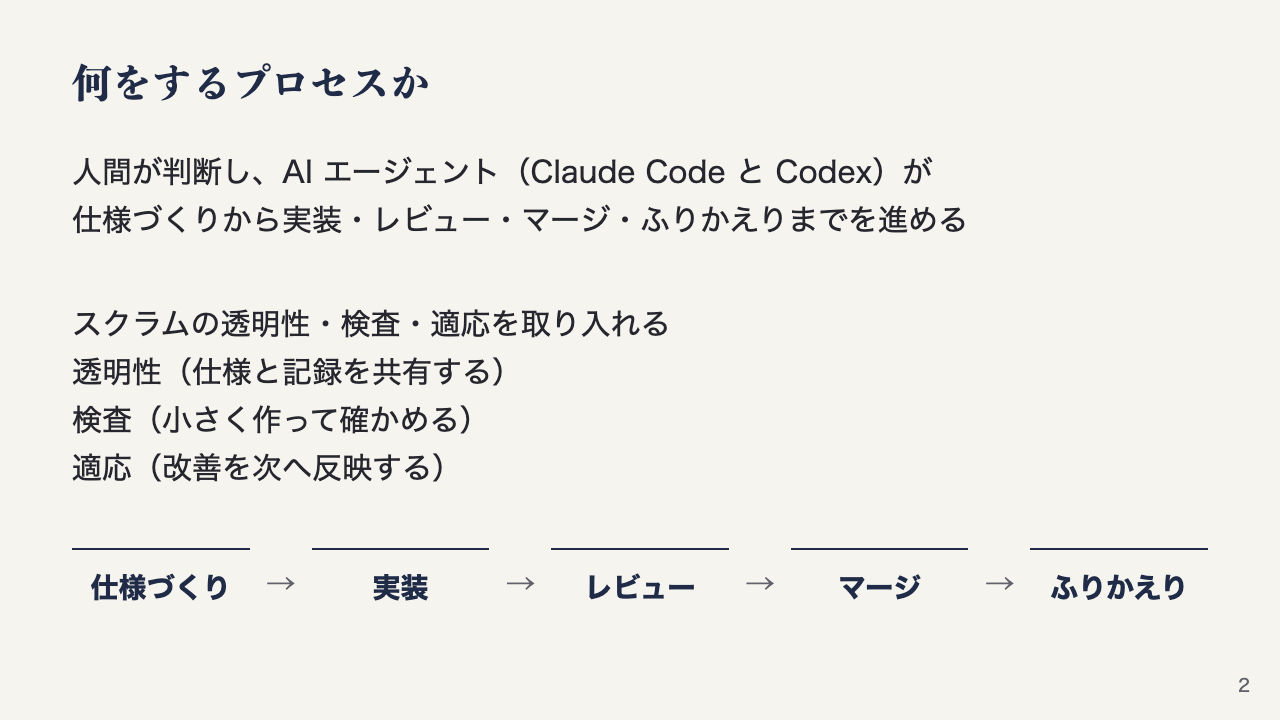
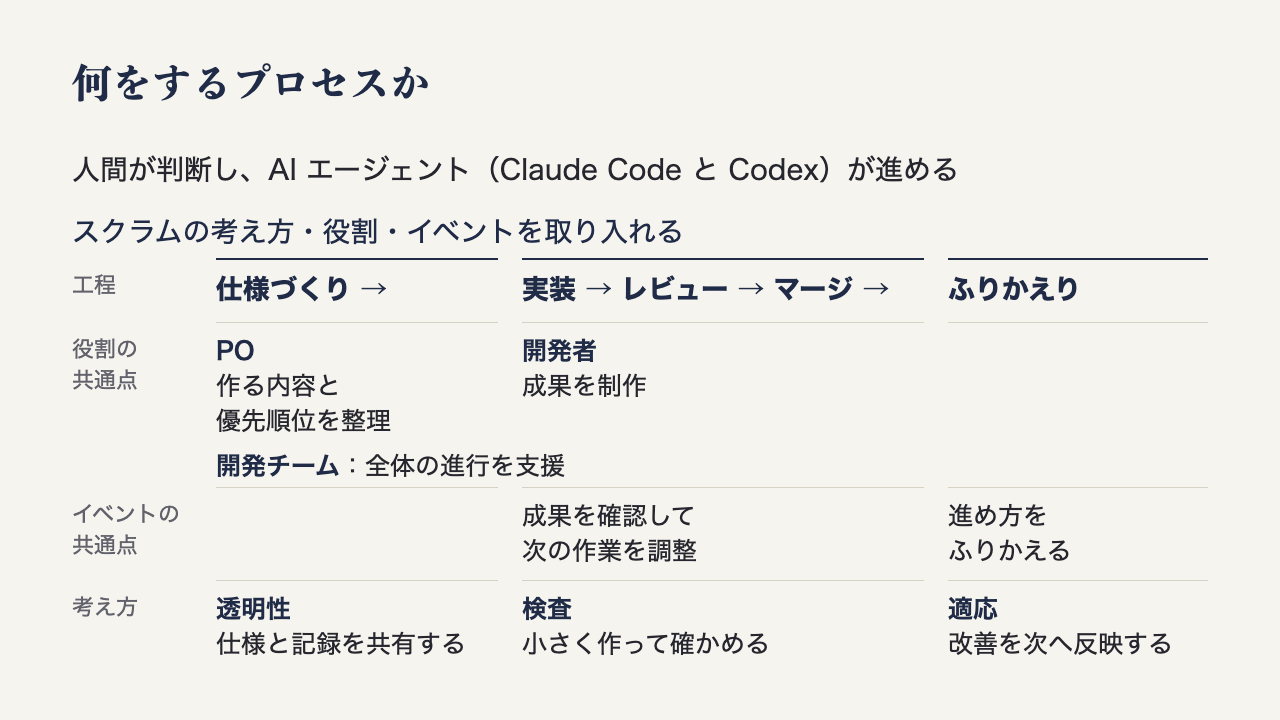
docs: show Scrum roles and events in the process diagram

diff --git a/themes/paper.css b/themes/paper.css
@@ -358,3 +358,16 @@ table.duty.loop tr.decide b { color: var(--gold-text); }
 .shots.phone.pair .shot .name { font-size: 20px; font-weight: 700; color: var(--indigo); }
 .shots.phone.pair img { flex: none; height: 165px; width: auto; max-height: none; }
 .shots.phone.pair .arrow { flex: none; align-self: center; width: 20px; padding: 0; color: var(--muted); font-size: 20px; }
+
+/* 全体像: 工程の列に役割・イベント・考え方をそろえる。2枚目専用 */
+section.process-overview .statement { font-size: 28px; line-height: 1.5; margin-bottom: 20px; }
+.overview-intro { font-size: 28px; color: var(--indigo); margin-bottom: 6px; }
+.overview-grid { display: grid; grid-template-columns: 120px 282px 402px 260px; column-gap: 24px; row-gap: 0; font-size: 25px; line-height: 1.4; }
+.overview-grid > div { min-width: 0; }
+.overview-grid .label { color: var(--muted); font-size: 22px; padding-top: 12px; }
+.overview-grid .phase { color: var(--indigo); font-weight: 700; font-size: 27px; border-top: 2px solid var(--indigo); padding: 10px 0 14px; white-space: nowrap; }
+.overview-grid .duty { border-top: 1px solid var(--rule); padding: 10px 0 6px; }
+.overview-grid b { color: var(--indigo); }
+.overview-grid .support { grid-column: 2 / 5; padding: 4px 0 4px; }
+.overview-grid .event { border-top: 1px solid var(--rule); padding: 10px 0 12px; }
+.overview-grid .pillar { border-top: 1px solid var(--rule); padding-top: 10px; }

diff --git a/docs/design.md b/docs/design.md
@@ -48,8 +48,9 @@ Issue #5 で採用した見本（`e0d645a` の [見本原稿](../slides/design-c
 |---|---|---|
 | 表紙 | `<!-- _class: cover -->` と `# 題名`、`<p class="keywords">`・`<p class="subtitle">` | 1 |
 | 本文 | `## 見出し` に続けて本文。特別なクラスは不要 | 2〜14 |
-| 要旨の一文 | `<p class="statement">` | 2 |
-| 工程 | `<div class="flow">` の中に `<div class="step">` と `<div class="arrow">→</div>` を交互に置く | 2 |
+| 要旨の一文 | `<p class="statement">`（全体像のページでは28pxの1行） | 2 |
+| 全体像の図 | `<!-- _class: process-overview -->` と `.overview-intro`・`.overview-grid`。下の「全体像の図」 | 2 |
+| 工程 | `<div class="flow">` の中に `<div class="step">` と `<div class="arrow">→</div>` を交互に置く | 単独の工程図を置く場合 |
 | 3列 | `<div class="columns">` の中に `<div class="column">`（`<h3>`・`<ul>`・`<p class="meta">`）。順序を示すときだけ列の間に `<div class="arrow">→</div>` を置く。参照先 `.meta` は列の下端にそろう | 3（矢印あり） |
 | 3列（役割の人物つき） | `<div class="columns roles">` にし、各列の `<h3>` を `<div class="role-head">` で包んで、その前に `<img class="role-figure">` を置く（下の「役割の人物」） | 4 |
 | 左右 | `<div class="split">` の左に `<div class="person">`（`<h3>`・`<ul>`・`<p class="meta">`・`<img class="people">`）、`<div class="arrow">→</div>`、右に `<div class="judgements">` と `<div class="judgement">` | 5 |
@@ -74,6 +75,16 @@ Issue #5 で採用した見本（`e0d645a` の [見本原稿](../slides/design-c
 ```
 
 3列の高さは 430px に固定している。項目が多くて参照先が下にはみ出すときは、項目を減らすか、そのページの列だけ文字を小さくし、理由を記録する（導入6枚では 25px のまま収まった）。
+
+## 全体像の図
+
+2枚目は、工程を横に並べ、その下へ役割・イベントの共通点と考え方をそろえる。`process-overview` のページだけ要旨を28px・行間1.5・下余白20pxにする。工程の説明は図に集約し、冒頭の要旨では人間と AI の分担を1行で示す。
+
+- `.overview-intro` は28px。`.overview-grid` は左の行見出し120pxと、仕様づくり282px・実装〜マージ402px・ふりかえり260pxの3列。列間24pxで、左右72pxの余白内に収める。
+- `.label` は22px、`.phase` は27px・太字、本文は25px・行間1.4。各段は罫線と余白で区切り、カードや金色を追加しない。
+- `.duty` に役割と具体的な作業を置く。`.support` は3列にまたがり、開発チームが全体の進行を支援することを示す。`.event` は成果確認後の調整と、進め方のふりかえりを関係する工程の下に置く。`.pillar` は三本柱と具体的な行動を示す。
+- 列は説明上の配置で、役割の担当範囲や三本柱の適用範囲を工程ごとに限定する定義ではない。この点と正式なスクラムの役割・イベントとの違いは発表ノートで補う。
+- 最下段は本文の下端に近いため、手元の DOM 実測と CI の PDF（Noto）の両方で、文字切れ・はみ出しを確かめる。
 
 ## 次のスライドを足す手順
 
